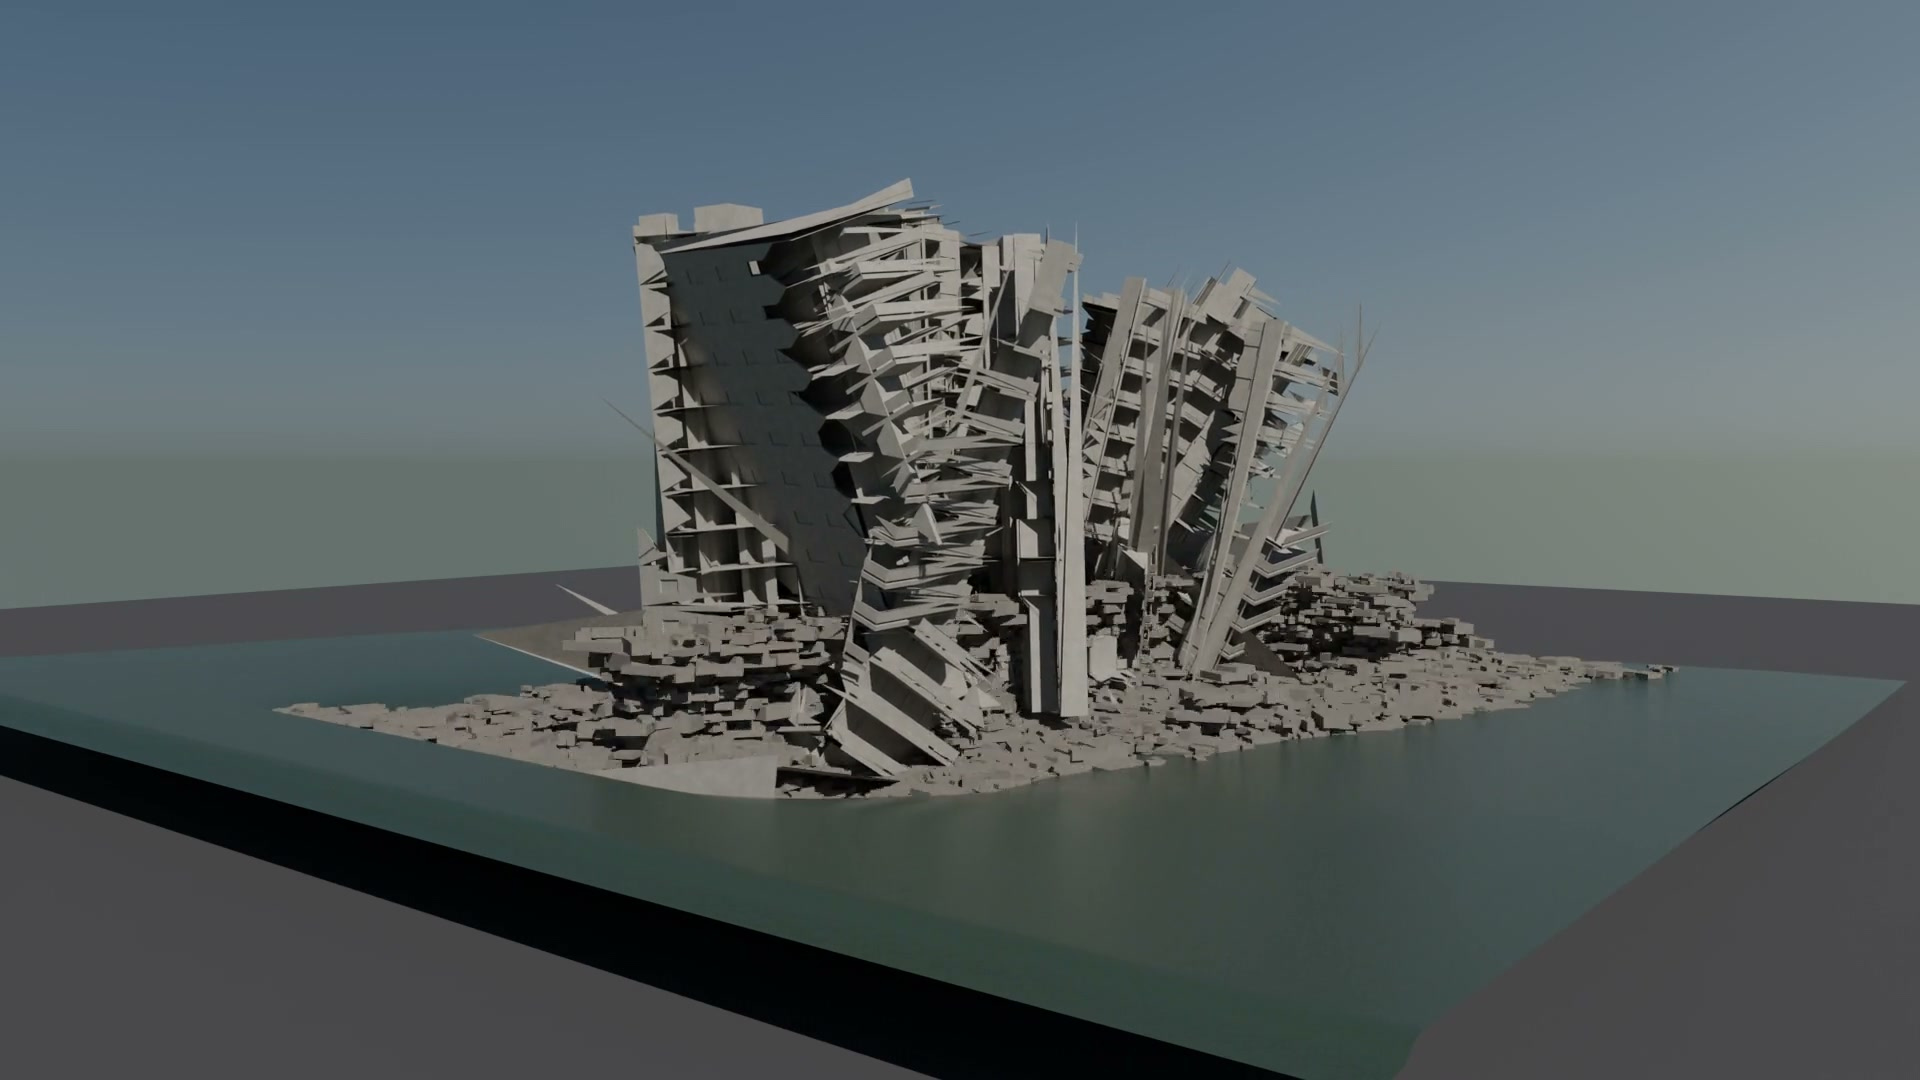
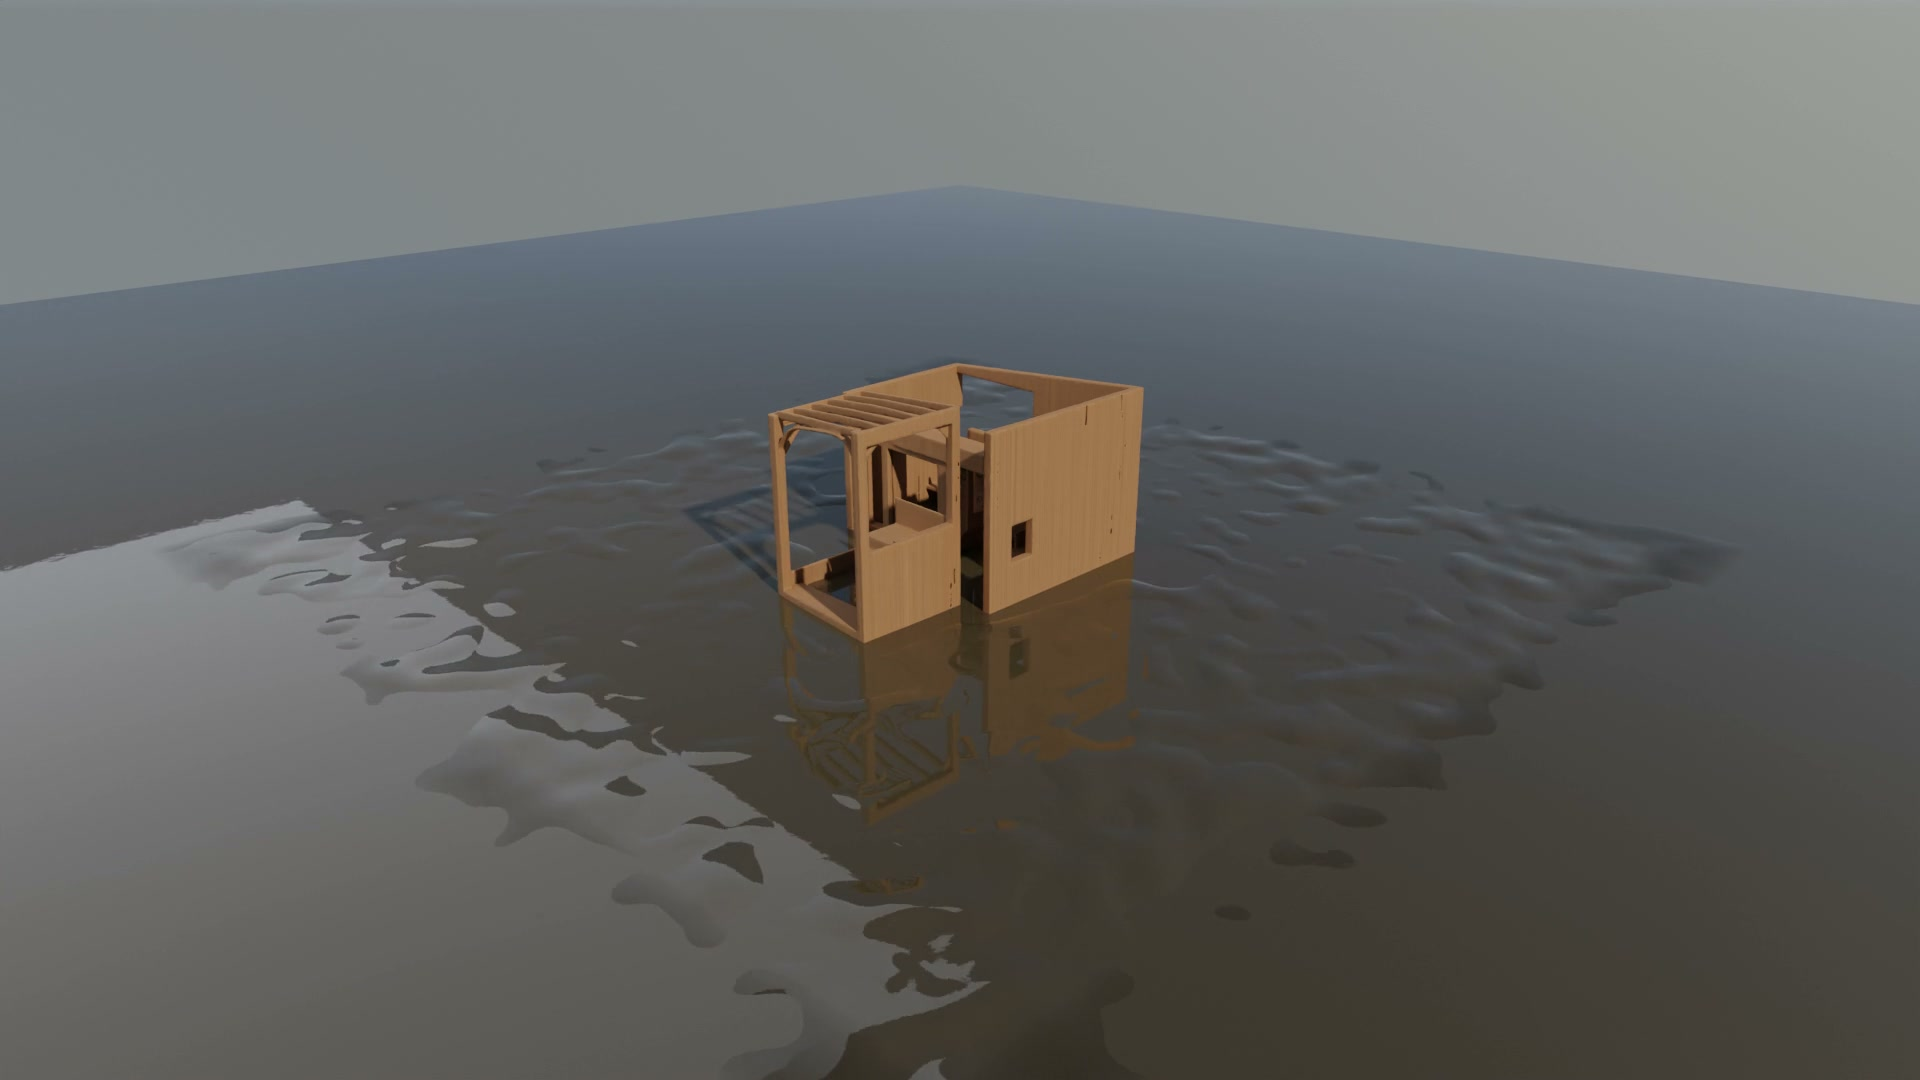
MLS-MPM card: use Phase 9 rising flood showcase
Replace Phase 8 building collapse clip with cleaner Cycles
rising-flood demo (house + SDF water, SplashSurf mesh).

diff --git a/index.html b/index.html
@@ -2520,11 +2520,11 @@
             </article>
 
             <article class="project-item" data-tags="physics">
-              <video class="project-thumb lazy-video" data-src="assets/proof/taichi_mlsmpm.mp4" poster="assets/proof/taichi_mlsmpm.jpg" loop muted playsinline preload="none" aria-label="Building Destruction + Flood — hybrid SWE + MLS-MPM multi-story collapse with flood water (Phase 8)"></video>
+              <video class="project-thumb lazy-video" data-src="assets/proof/taichi_mlsmpm.mp4" poster="assets/proof/taichi_mlsmpm.jpg" loop muted playsinline preload="none" aria-label="3D Rising Flood — MLS-MPM water around a house mesh, SplashSurf surface + Blender Cycles (Phase 9)"></video>
               <div class="project-body">
                 <h3>MLS-MPM Physics Simulation</h3>
-                <div class="meta">Taichi · MLS-MPM · APIC · SWE · Fracture · Cycles render</div>
-                <p>Series of fluid–structure sims on Taichi (Hu et al. 2018 MLS-MPM). Showcase clip: <strong>Phase 8 Building Destruction + Flood</strong> — hybrid 2D shallow-water (HLLC/MUSCL) driving 3D MLS-MPM concrete fracture (corotational elastic + Rankine failure + soaking erosion → pancake collapse), Voronoi chunks, offline Blender render. Earlier phases: 2D dam break, 3D bridge pillars, city flood, rising-flood with SplashSurf meshing.</p>
+                <div class="meta">Taichi · MLS-MPM · APIC · SDF collision · SplashSurf · Cycles</div>
+                <p>Series of fluid–structure sims on Taichi (Hu et al. 2018 MLS-MPM). Showcase clip: <strong>Phase 9 3D Rising Flood</strong> — 128³ grid, up to 4M water particles, GLB building → SDF slip boundaries, two-phase injection, PLY → SplashSurf isosurface → Blender Cycles water. Also: 2D dam break, 3D bridge pillars, water wheel, city flood, building fracture (Phase 8).</p>
                 <div class="project-tags"><span class="project-tag">Physics</span></div>
                 <a href="https://qervas.github.io/taichi" target="_blank" rel="noopener">Live demos ↗</a>
                 <a href="https://github.com/Qervas/taichi" target="_blank" rel="noopener">Code ↗</a>